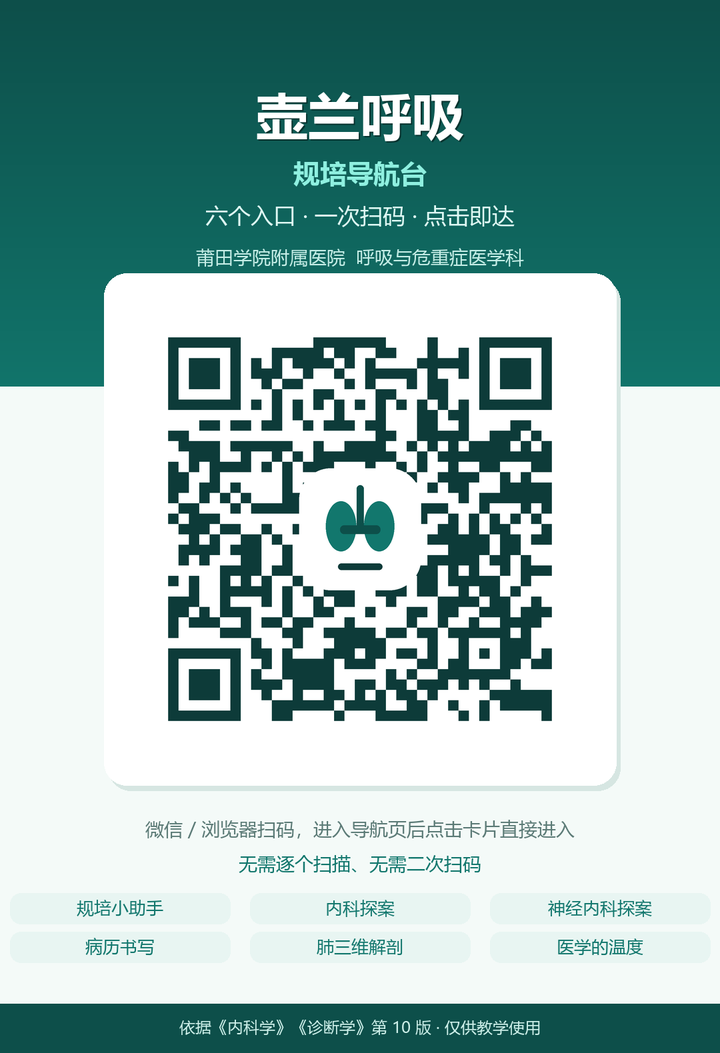
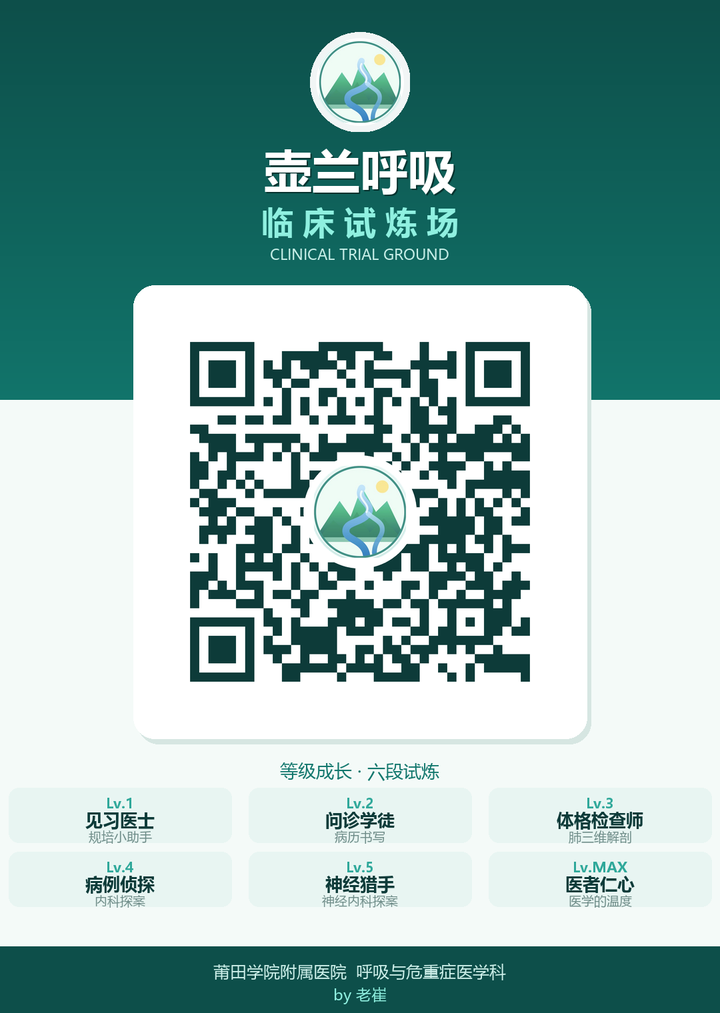
改名临床试炼场 + 六段等级成长体系；二维码嵌入壶兰呼吸官方LOGO；删除两行提示；底部加 by 老崔

Changed region(s): [[0.0, 0.0306, 1.0, 1.0]]

diff --git a/index.html b/index.html
@@ -53,36 +53,61 @@ body{
 header{padding:38px 4px 22px;color:#eafaf7}
 .brand{display:flex;align-items:center;gap:11px;margin-bottom:16px}
 .brand .mark{
-  width:42px;height:42px;border-radius:13px;
-  background:linear-gradient(145deg,rgba(255,255,255,.96),rgba(226,246,242,.86));
+  width:46px;height:46px;border-radius:50%;
+  background:#fff;overflow:hidden;flex:0 0 auto;
   display:grid;place-items:center;
-  box-shadow:0 6px 18px rgba(6,50,46,.30);
+  box-shadow:0 6px 18px rgba(6,50,46,.34),0 0 0 2px rgba(255,255,255,.30);
   animation:float 4.4s ease-in-out infinite;
 }
 @keyframes float{0%,100%{transform:translateY(0)}50%{transform:translateY(-4px)}}
-.brand .mark svg{width:25px;height:25px}
+.brand .mark img{width:100%;height:100%;object-fit:cover;display:block}
 .brand h1{font-size:20px;font-weight:800;letter-spacing:.5px;text-shadow:0 2px 12px rgba(4,38,35,.35)}
 .brand span{display:block;font-size:11.5px;font-weight:500;opacity:.76;letter-spacing:2.4px;margin-top:2px}
 .headline{font-size:25px;font-weight:800;line-height:1.32;letter-spacing:.3px;text-shadow:0 2px 14px rgba(4,38,35,.32)}
 .headline em{font-style:normal;color:#8ff0e0}
-.meta{
-  margin-top:14px;display:flex;flex-wrap:wrap;gap:8px 10px;font-size:12px;
+
+/* 等级成长面板 */
+.lvpanel{
+  margin-top:20px;padding:17px 17px 15px;border-radius:19px;
+  background:rgba(255,255,255,.94);
+  border:1px solid rgba(18,119,109,.14);
+  box-shadow:0 6px 20px rgba(13,79,74,.09);
 }
-.meta i{
-  font-style:normal;padding:5px 11px;border-radius:999px;
-  background:rgba(255,255,255,.14);border:1px solid rgba(255,255,255,.24);
-  backdrop-filter:blur(6px);color:#dff9f4;letter-spacing:.4px;
+.lvhead{display:flex;align-items:center;justify-content:space-between;gap:12px}
+.lvnow{display:flex;align-items:center;gap:12px;min-width:0}
+.lvbadge{
+  flex:0 0 auto;font-size:13px;font-weight:800;letter-spacing:.4px;
+  padding:7px 12px;border-radius:11px;color:#fff;
+  background:linear-gradient(140deg,#2fa89a,#0d6b62);
+  box-shadow:0 4px 12px rgba(18,119,109,.30);
+  transition:background .35s,box-shadow .35s,transform .3s;
+}
+.lvbadge.up{transform:scale(1.14)}
+.lvtext{min-width:0}
+.lvtext b{display:block;font-size:15.5px;font-weight:700;letter-spacing:.2px}
+.lvtext small{display:block;font-size:11.5px;color:var(--sub);margin-top:2px;
+  overflow:hidden;text-overflow:ellipsis;white-space:nowrap}
+.lvexp{flex:0 0 auto;font-size:13px;color:var(--sub);font-weight:600}
+.lvexp b{font-size:20px;color:var(--teal);font-weight:800}
+.lvexp i{font-style:normal;opacity:.6}
+
+.lvbar{
+  margin-top:13px;height:7px;border-radius:99px;overflow:hidden;
+  background:rgba(18,119,109,.11);
+}
+.lvfill{
+  height:100%;width:0;border-radius:99px;
+  background:linear-gradient(90deg,#4fd1c0,#12776d);
+  box-shadow:0 0 10px rgba(79,209,192,.55);
+  transition:width .75s cubic-bezier(.2,.8,.3,1);
 }
 
-/* 提示条 */
-.tip{
-  margin:20px 0 4px;padding:12px 15px;border-radius:14px;
-  background:rgba(255,255,255,.72);border:1px solid rgba(18,119,109,.14);
-  font-size:12.5px;color:var(--teal);line-height:1.6;
-  display:flex;gap:8px;align-items:flex-start;
-  box-shadow:0 4px 14px rgba(13,79,74,.06);
+.lvtrack{display:flex;gap:7px;margin-top:13px}
+.lvtrack .dot{
+  flex:1;height:5px;border-radius:99px;background:rgba(18,119,109,.13);
+  transition:background .4s,box-shadow .4s;
 }
-.tip b{color:var(--ink)}
+.lvtrack .dot.on{background:linear-gradient(90deg,#4fd1c0,#12776d);box-shadow:0 0 8px rgba(79,209,192,.5)}
 
 /* 卡片 */
 .grid{margin-top:16px;display:flex;flex-direction:column;gap:13px}
@@ -191,39 +216,41 @@ footer b{color:var(--teal);font-weight:600}
   <header>
     <div class="brand">
       <div class="mark">
-        <svg viewBox="0 0 24 24" fill="none">
-          <path d="M12 3c3.2 2.4 5.2 5.6 5.2 9a5.2 5.2 0 0 1-10.4 0c0-3.4 2-6.6 5.2-9Z" fill="#12776d"/>
-          <path d="M12 21v-6.4" stroke="#12776d" stroke-width="1.5" stroke-linecap="round"/>
-          <path d="M9.6 12.6h4.8" stroke="#0d4f4a" stroke-width="1.4" stroke-linecap="round"/>
-        </svg>
+        <img src="logo.png" alt="壶兰呼吸">
       </div>
       <div>
         <h1>壶兰呼吸</h1>
         <span>HULAN RESPIRATORY</span>
       </div>
     </div>
-    <div class="headline">规培导航台<br><em>六个入口 · 一次扫码</em></div>
-    <div class="meta">
-      <i>莆田学院附属医院</i>
-      <i>呼吸与危重症医学科</i>
-    </div>
+    <div class="headline">临床试炼场<br><em>六段试炼 · 逐级通关</em></div>
   </header>
 
-  <div class="tip">
-    <svg width="15" height="15" viewBox="0 0 24 24" fill="none" stroke="#12776d" stroke-width="2" stroke-linecap="round" style="flex:0 0 auto;margin-top:2px">
-      <circle cx="12" cy="12" r="9"/><path d="M12 8h.01M11 12h1v5"/>
-    </svg>
-    <div>点击下方任意卡片即可进入对应工具，<b>无需再次扫码</b>。建议在手机浏览器中打开并添加到主屏幕。</div>
-  </div>
+  <!-- 等级成长面板 -->
+  <section class="lvpanel">
+    <div class="lvhead">
+      <div class="lvnow">
+        <span class="lvbadge" id="lvBadge">Lv.0</span>
+        <div class="lvtext">
+          <b id="lvName">初入医门</b>
+          <small id="lvDesc">开始第一次试炼，解锁你的医师之路</small>
+        </div>
+      </div>
+      <div class="lvexp"><b id="lvCount">0</b><i>/6</i></div>
+    </div>
+    <div class="lvbar"><div class="lvfill" id="lvFill"></div></div>
+    <div class="lvtrack" id="lvTrack"></div>
+  </section>
 
-  <div class="group">规培教学</div>
+  <div class="group">六段试炼</div>
   <div class="grid" id="grid"></div>
 
   <footer>
     <div class="line"></div>
-    壶兰呼吸 · 规培小助手<br>
+    壶兰呼吸 · 临床试炼场<br>
     <b>莆田学院附属医院 呼吸与危重症医学科</b><br>
-    依据《内科学》《诊断学》第 10 版 · 仅供教学使用
+    by 老崔<br>
+    <span class="fine">依据《内科学》《诊断学》第 10 版 · 仅供教学使用</span>
   </footer>
 </div>
 
@@ -236,65 +263,121 @@ footer b{color:var(--teal);font-weight:600}
 </div>
 
 <script>
+/* ---------- 六段试炼：等级成长体系 ---------- */
 const SITES = [
   {
+    lv: 1, rank: "见习医士",
     n: "规培小助手",
     d: "壶兰呼吸主站 · 内科学 / 查体 / 听诊 / 血气分析 / 影像判读",
     u: "https://niuontheway-ops.github.io/resident-doctor/",
-    tag: "主站",
     c1: "#1fb6a6", c2: "#0d6b62", cs: "rgba(23,150,138,.34)",
     i: '<path d="M4 7.5A2.5 2.5 0 0 1 6.5 5H11v14H6.5A2.5 2.5 0 0 1 4 16.5v-9Z"/><path d="M20 7.5A2.5 2.5 0 0 0 17.5 5H13v14h4.5A2.5 2.5 0 0 0 20 16.5v-9Z"/>'
   },
   {
-    n: "内科探案系列",
-    d: "呼吸病学病例推理 · 从症状到诊断的完整临床思维链",
-    u: "https://niuontheway-ops.github.io/detective/",
-    tag: "病例",
-    c1: "#4facfe", c2: "#1064c4", cs: "rgba(55,140,240,.30)",
-    i: '<circle cx="10.5" cy="10.5" r="6"/><path d="M20 20l-5-5"/><path d="M8.5 10.5h4M10.5 8.5v4"/>'
-  },
-  {
-    n: "神经内科探案系列",
-    d: "神经内科病例推理 · 定位诊断与定性诊断双线推演",
-    u: "https://niuontheway-ops.github.io/detective-Neurol/",
-    tag: "病例",
-    c1: "#9b8cff", c2: "#5b46c9", cs: "rgba(139,124,255,.30)",
-    i: '<path d="M12 4.5a4 4 0 0 0-4 4c-1.6.6-2.6 2-2.6 3.7 0 1.5.8 2.8 2 3.5-.2 1.6 1 3.3 3 3.6"/><path d="M12 4.5a4 4 0 0 1 4 4c1.6.6 2.6 2 2.6 3.7 0 1.5-.8 2.8-2 3.5.2 1.6-1 3.3-3 3.6"/><path d="M12 4.5v14.6M9.4 9.6h2.6M14 13.2h-2.6"/>'
-  },
-  {
+    lv: 2, rank: "问诊学徒",
     n: "临床第一课：病历书写",
     d: "主诉 / 现病史 / 查体 / 诊断依据 · 规范化病历书写训练",
     u: "https://niuontheway-ops.github.io/medical-record/",
-    tag: "技能",
     c1: "#ffb457", c2: "#e07c1b", cs: "rgba(255,168,66,.32)",
     i: '<path d="M6 3.5h8.5L19 8v12.5H6z"/><path d="M14 3.5V8h5"/><path d="M9 12.5h7M9 16h5"/>'
   },
   {
+    lv: 3, rank: "体格检查师",
     n: "手机课堂：人体肺脏三维解剖",
     d: "3D 可交互肺脏模型 · 肺叶 / 支气管树 / 血管走行",
     u: "https://niuontheway-ops.github.io/3D-LUNG/",
-    tag: "3D",
     c1: "#43d9a3", c2: "#0f9c6d", cs: "rgba(58,208,158,.32)",
     i: '<path d="M12 3.5c2.8 2.2 4.6 5.2 4.6 8.4a4.6 4.6 0 0 1-9.2 0c0-3.2 1.8-6.2 4.6-8.4Z"/><path d="M12 20.5v-5.2"/>'
   },
   {
+    lv: 4, rank: "病例侦探",
+    n: "内科探案系列",
+    d: "呼吸病学病例推理 · 从症状到诊断的完整临床思维链",
+    u: "https://niuontheway-ops.github.io/detective/",
+    c1: "#4facfe", c2: "#1064c4", cs: "rgba(55,140,240,.30)",
+    i: '<circle cx="10.5" cy="10.5" r="6"/><path d="M20 20l-5-5"/><path d="M8.5 10.5h4M10.5 8.5v4"/>'
+  },
+  {
+    lv: 5, rank: "神经猎手",
+    n: "神经内科探案系列",
+    d: "神经内科病例推理 · 定位诊断与定性诊断双线推演",
+    u: "https://niuontheway-ops.github.io/detective-Neurol/",
+    c1: "#9b8cff", c2: "#5b46c9", cs: "rgba(139,124,255,.30)",
+    i: '<path d="M12 4.5a4 4 0 0 0-4 4c-1.6.6-2.6 2-2.6 3.7 0 1.5.8 2.8 2 3.5-.2 1.6 1 3.3 3 3.6"/><path d="M12 4.5a4 4 0 0 1 4 4c1.6.6 2.6 2 2.6 3.7 0 1.5-.8 2.8-2 3.5.2 1.6-1 3.3-3 3.6"/><path d="M12 4.5v14.6M9.4 9.6h2.6M14 13.2h-2.6"/>'
+  },
+  {
+    lv: 6, rank: "医者仁心",
     n: "医学的温度",
     d: "医患沟通与人文叙事 · 医学人文教育专题",
     u: "https://niuontheway-ops.github.io/med-kindness/",
-    tag: "人文",
     c1: "#ff8fa8", c2: "#d94868", cs: "rgba(255,138,164,.30)",
     i: '<path d="M12 20s-7-4.4-7-9.2A4 4 0 0 1 12 8.2 4 4 0 0 1 19 10.8C19 15.6 12 20 12 20Z"/>'
   }
 ];
 
+/* 段位称号表（0 级也有称号） */
+const TITLES = [
+  { name: "初入医门", desc: "开始第一次试炼，解锁你的医师之路" },
+  { name: "见习医士", desc: "已踏入规培之门，基础功开始积累" },
+  { name: "问诊学徒", desc: "学会问出一份合格病史，临床思维起步" },
+  { name: "体格检查师", desc: "掌握肺部解剖与查体，手上开始有感觉" },
+  { name: "病例侦探", desc: "能从症状追到诊断，推理链条成形" },
+  { name: "神经猎手", desc: "定位与定性双线推演，诊断精度再上一阶" },
+  { name: "医者仁心", desc: "技术之外看见人，六段试炼全部通关" }
+];
+
+const KEY = 'hulan_trial_progress_v1';
+let progress = [];
+try {
+  progress = JSON.parse(localStorage.getItem(KEY) || '[]') || [];
+} catch (e) { progress = []; }
+progress = progress.filter(x => typeof x === 'number' && x >= 1 && x <= 6);
+
 const grid = document.getElementById('grid');
 const jump = document.getElementById('jump');
 const jumpName = document.getElementById('jumpName');
+const lvBadge = document.getElementById('lvBadge');
+const lvName = document.getElementById('lvName');
+const lvDesc = document.getElementById('lvDesc');
+const lvCount = document.getElementById('lvCount');
+const lvFill = document.getElementById('lvFill');
+const lvTrack = document.getElementById('lvTrack');
+
+/* 进度条分段 */
+for (let i = 0; i < 6; i++) {
+  const dt = document.createElement('div');
+  dt.className = 'dot';
+  lvTrack.appendChild(dt);
+}
+
+function renderLevel(animate) {
+  const done = progress.length;
+  const lv = TITLES[done] || TITLES[6];
+  lvBadge.textContent = done >= 6 ? 'Lv.MAX' : 'Lv.' + done;
+  lvName.textContent = lv.name;
+  lvDesc.textContent = lv.desc;
+  lvCount.textContent = done;
+  lvFill.style.width = (done / 6 * 100) + '%';
+
+  const dots = lvTrack.querySelectorAll('.dot');
+  dots.forEach((dd, i) => dd.classList.toggle('on', i < done));
+
+  if (done >= 6) {
+    lvBadge.style.background = 'linear-gradient(140deg,#ffd479,#e0932f)';
+    lvBadge.style.boxShadow = '0 4px 14px rgba(224,147,47,.42)';
+  }
+
+  if (animate) {
+    lvBadge.classList.add('up');
+    setTimeout(() => lvBadge.classList.remove('up'), 300);
+  }
+}
 
 SITES.forEach((s, k) => {
   const a = document.createElement('a');
   a.className = 'card pre';
   a.href = s.u;
+  a.dataset.lv = s.lv;
   a.style.setProperty('--d', (80 + k * 65) + 'ms');
   a.style.setProperty('--c1', s.c1);
   a.style.setProperty('--c2', s.c2);
@@ -302,7 +385,7 @@ SITES.forEach((s, k) => {
   a.innerHTML = `
     <div class="ico"><svg viewBox="0 0 24 24">${s.i}</svg></div>
     <div class="body">
-      <h3>${s.n}<span class="tag">${s.tag}</span></h3>
+      <h3>${s.n}<span class="tag">Lv.${s.lv} ${s.rank}</span></h3>
       <p>${s.d}</p>
     </div>
     <div class="go"><svg viewBox="0 0 24 24"><path d="M9 6l6 6-6 6"/></svg></div>`;
@@ -327,13 +410,23 @@ SITES.forEach((s, k) => {
     document.body.appendChild(r);
     setTimeout(() => r.remove(), 600);
 
+    // 记录试炼进度（本地存储，回访保留）
+    if (!progress.includes(s.lv)) {
+      progress.push(s.lv);
+      progress.sort((x, y) => x - y);
+      try { localStorage.setItem(KEY, JSON.stringify(progress)); } catch (err) {}
+      renderLevel(true);
+    }
+
     // 轻微震动 + 跳转过渡
     if (navigator.vibrate) navigator.vibrate(12);
-    jumpName.textContent = '正在打开 ' + s.n + '…';
+    jumpName.textContent = 'Lv.' + s.lv + ' ' + s.rank + ' · 正在进入…';
     jump.classList.add('on');
     // 不阻止默认行为 —— 保证在微信等内置浏览器中正常跳转
     setTimeout(() => jump.classList.remove('on'), 1600);
   });
-});</script>
+});
+
+renderLevel(false);</script>
 </body>
 </html>
